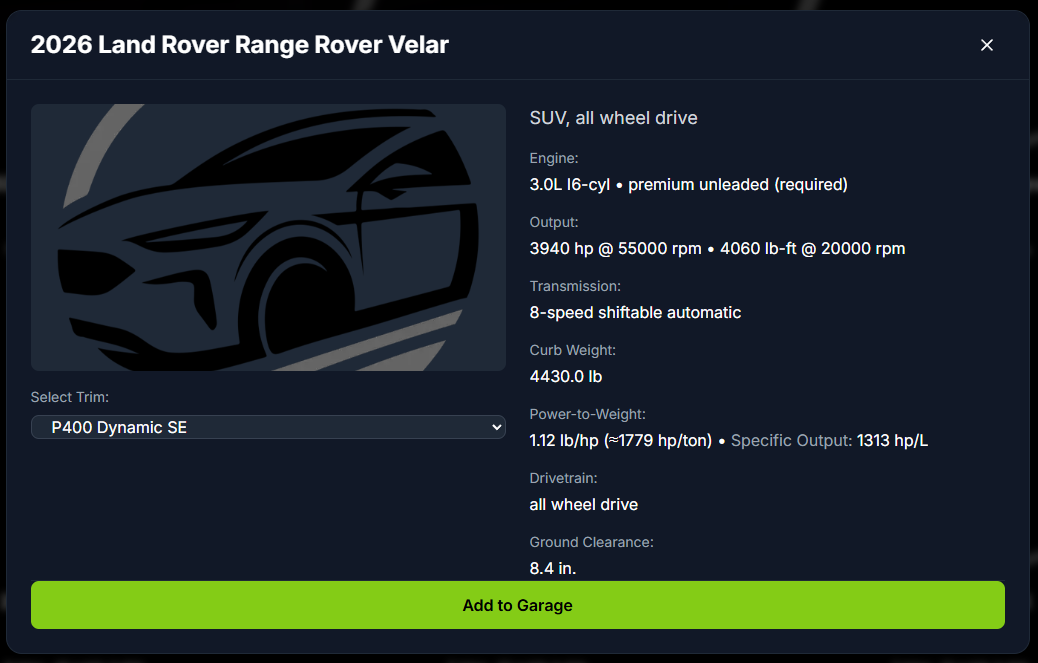
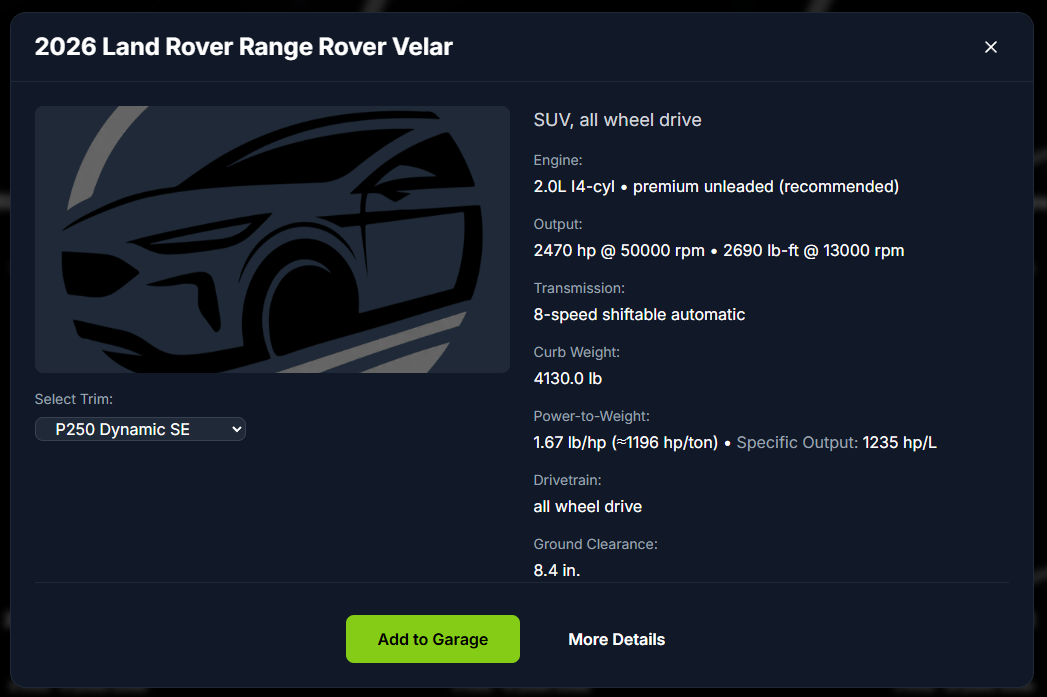
Adjust padding in VehicleDetailsModal action buttons for improved layout; update screenshot to reflect changes.

diff --git a/my-turborepo/apps/web/src/features/discover/vehicle-details-modal.tsx b/my-turborepo/apps/web/src/features/discover/vehicle-details-modal.tsx
@@ -362,7 +362,7 @@ const VehicleDetailsModal = ({ summary, initialTrimId, onClose }: VehicleDetails
           </div>
 
           {/* Action Buttons */}
-          <div className="mt-8 pt-8 border-t border-gray-800">
+          <div className="mt-6 pt-6 border-t border-gray-800">
             <div className="flex gap-4 justify-center">
               <button
                 onClick={handleAddToGarage}
